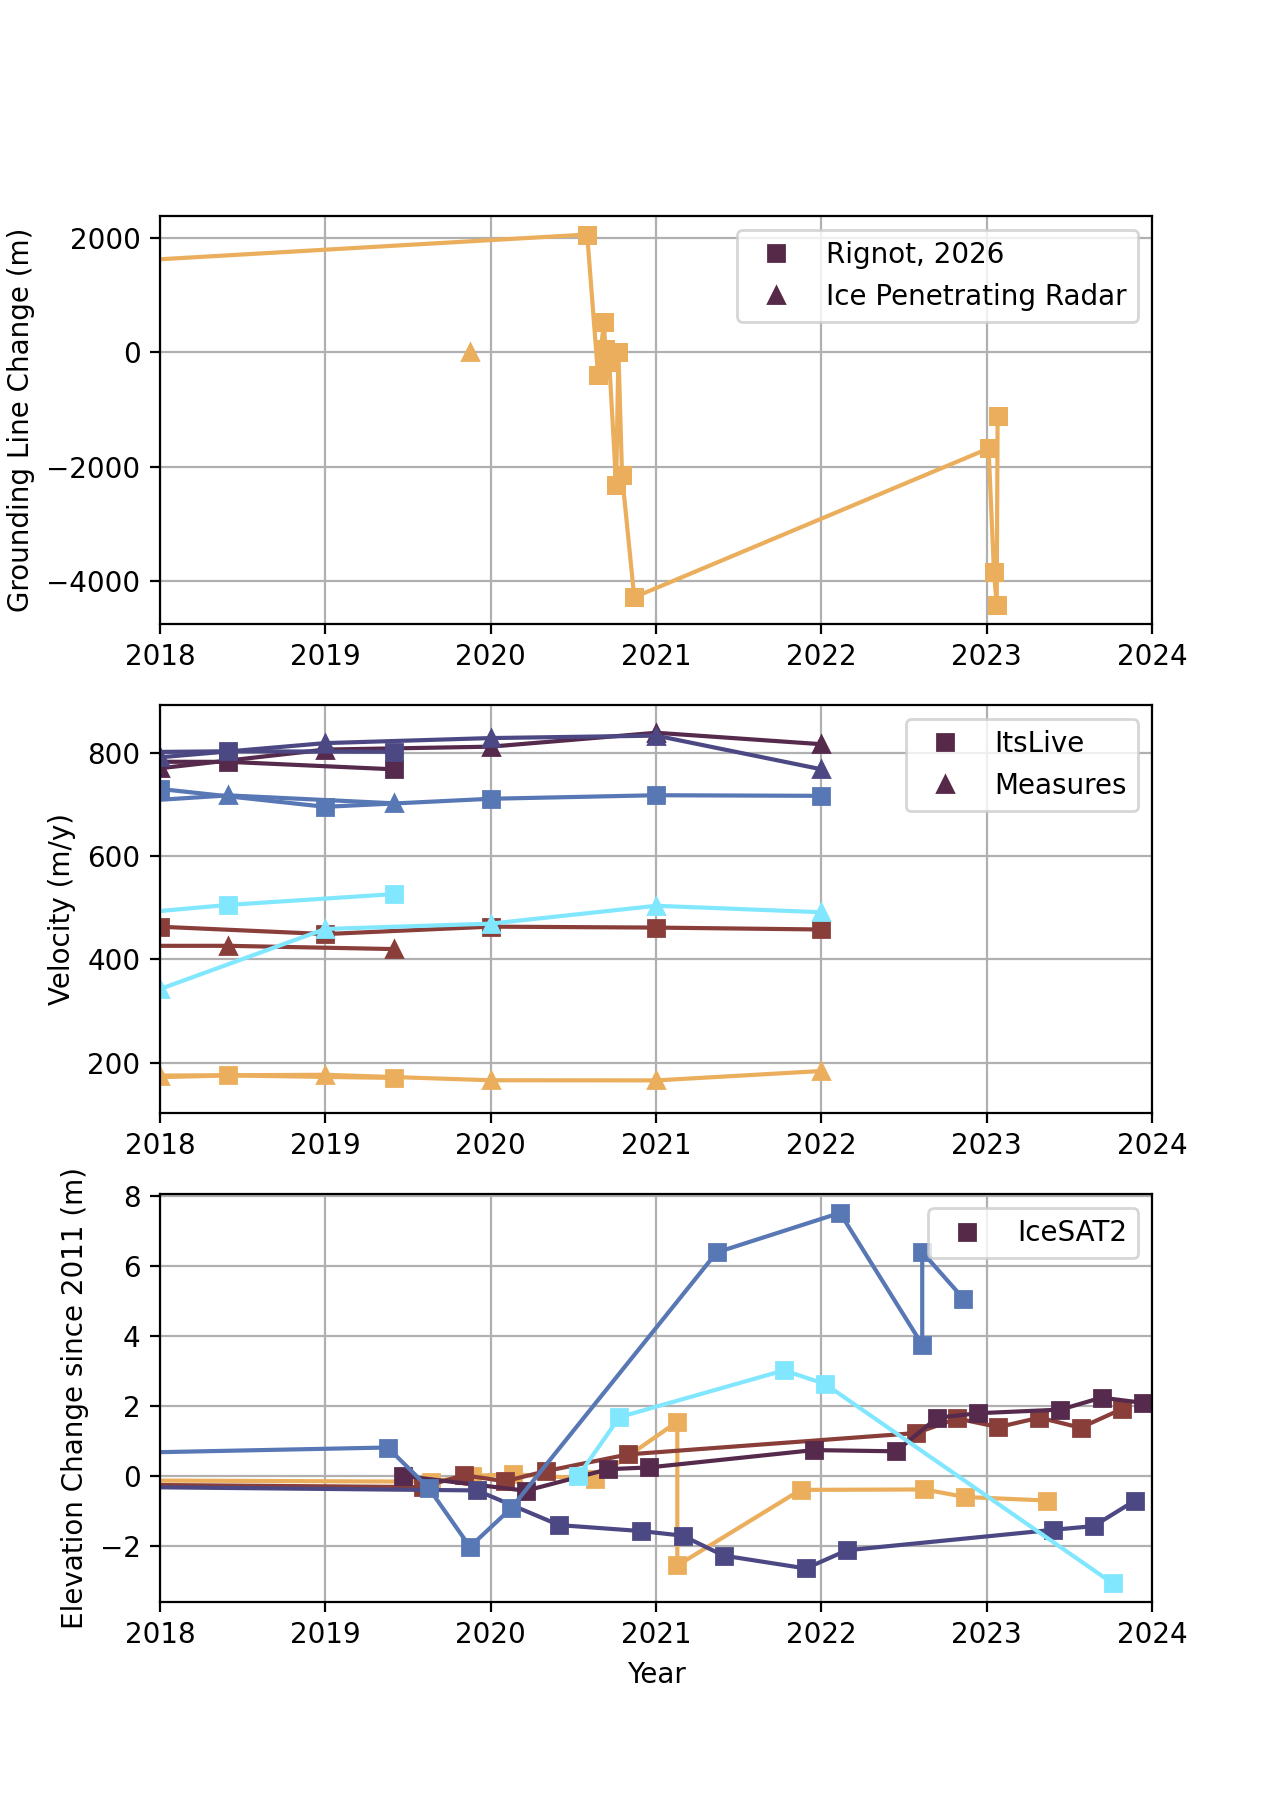
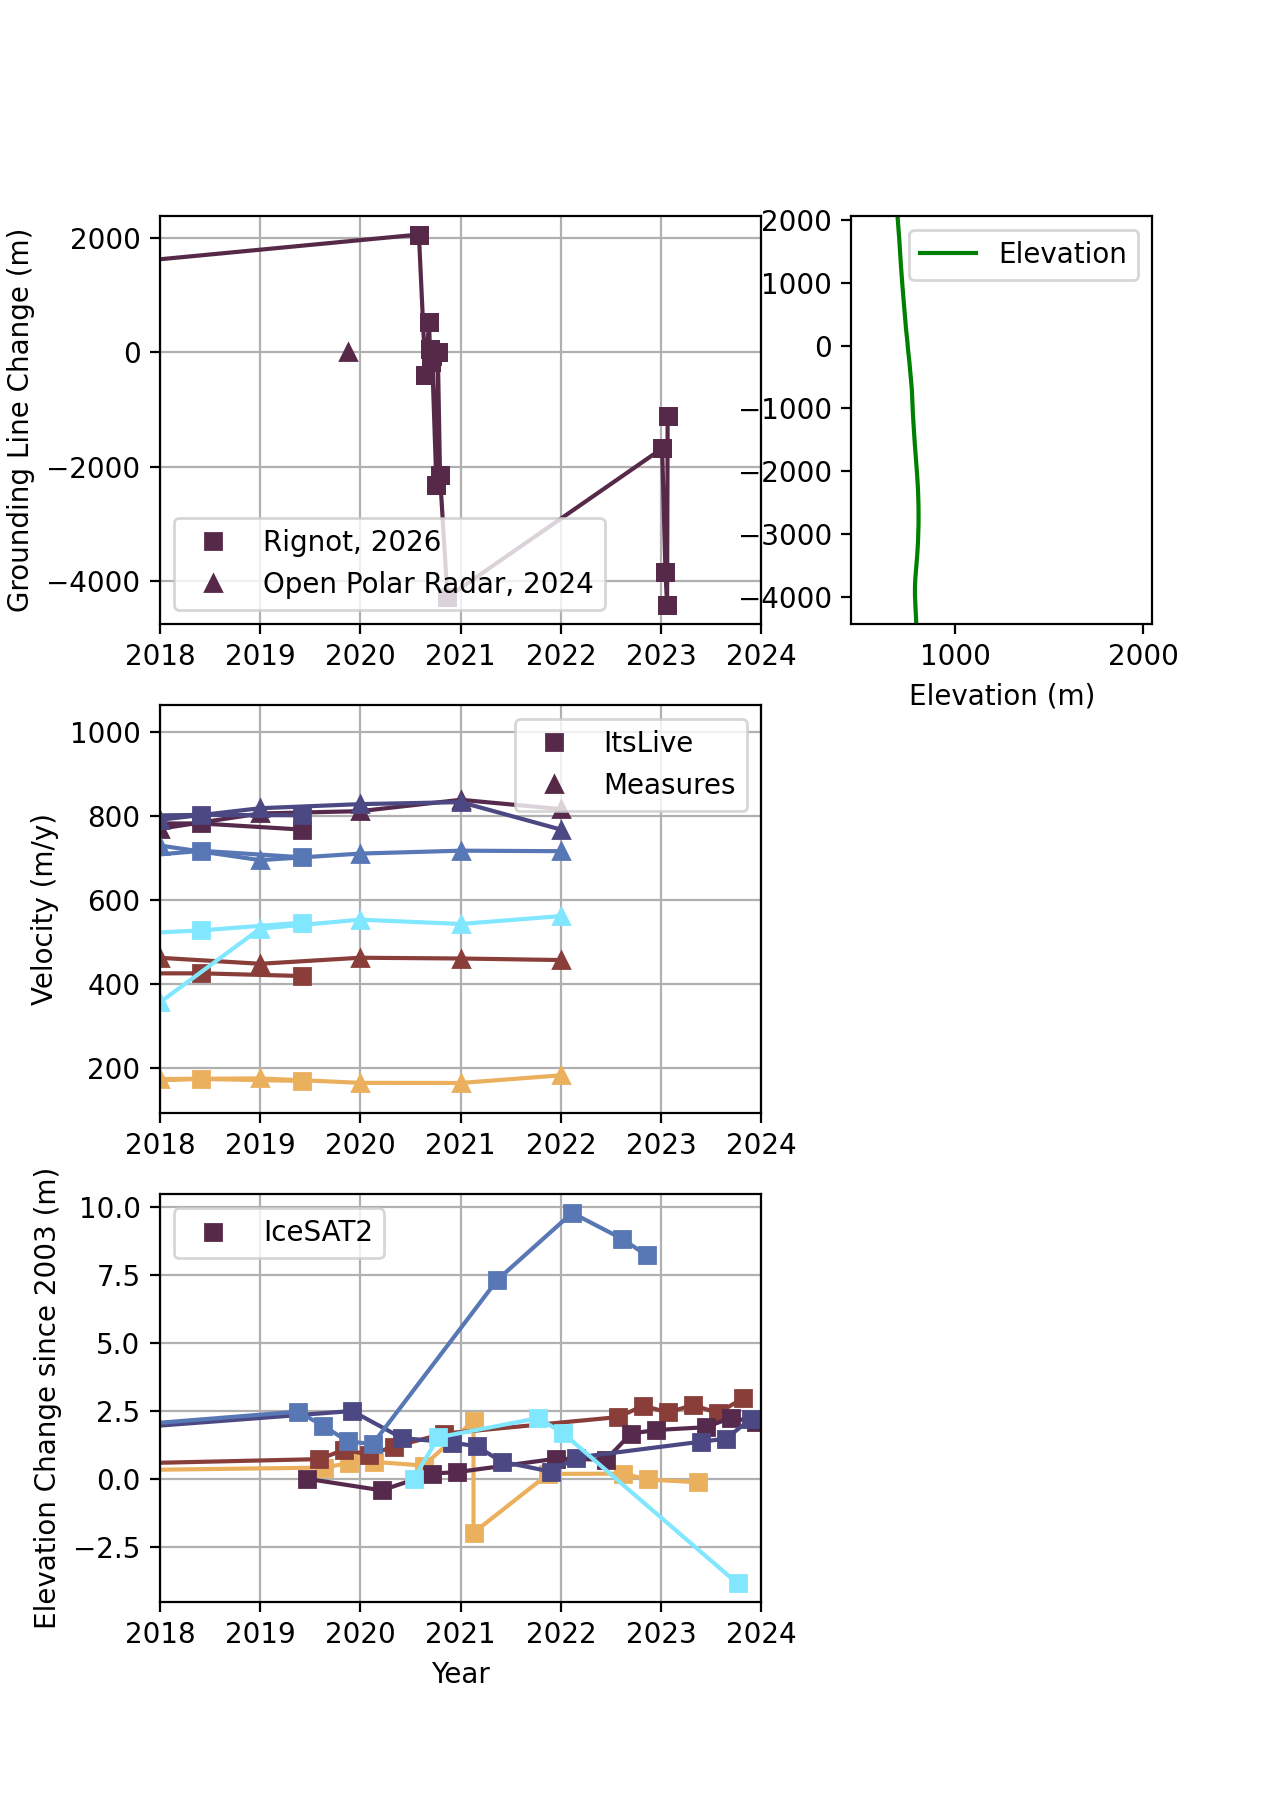
uhh start of elevation vs dist along grounding zone

diff --git a/src/pointwise.py b/src/pointwise.py
@@ -1,6 +1,6 @@
 import datetime
 from utils import *
-from file_manager import GravimetryManager, ElevationManager, VelocityManager
+from file_manager import GravimetryManager, ElevationManager, VelocityManager, IPRManager
 
 import geopandas as gpd
 import rioxarray # used by xarray for some reason, must be first
@@ -255,14 +255,20 @@ class Pointwize():
             for i, s in enumerate(self.results[list(self.results.keys())[0]]['sources'].unique()):
                 ax.plot([], [], label = s, marker= shapes[i], color=sm.to_rgba(0), linestyle='None')
 
+
+
         
 
         for j, p in enumerate(self.results.keys()):
             self.results[p] = self.results[p].dropna()
             ls = 'None'
+            color = sm.to_rgba(self.labels[j])
+            if self.data == 'gl':
+                color = sm.to_rgba(0)
+
             if unified_line:
                 ax.plot(self.results[p]['time'], 
-                            self.results[p][self.data].values, marker= 'None', color=sm.to_rgba(self.labels[j]))
+                            self.results[p][self.data].values, marker= 'None', color=color)
             else:
                 ls = 'solid'
             
@@ -271,10 +277,42 @@ class Pointwize():
                     cur = self.results[p][self.results[p]['sources'] == s]
                     
                     ax.plot(cur['time'], 
-                            cur[self.data].values, marker= shapes[i], color=sm.to_rgba(self.labels[j]), linestyle=ls)
+                            cur[self.data].values, marker= shapes[i], color=color, linestyle=ls)
             else:
                 ax.plot(self.results[p]['time'], 
-                        self.results[p][self.data].values, label = p, marker= 'o', color=sm.to_rgba(self.labels[j]), linestyle=ls)
+                        self.results[p][self.data].values, label = p, marker= 'o', color=color, linestyle=ls)
+
+            if self.data == 'gl':
+                return
+
+
+    def plot_elevation_summary(self, fig, ax):
+
+        fm = IPRManager(self.xlim, self.ylim, self.flags, self.data)
+        out = fm.get_ouput_files()
+        out = df_ref = gpd.sjoin_nearest(self.fl, out, max_distance=self.max_dist*10)
+
+        print(out)
+        print(self.fl)
+        out = out.sort_values('dist_from_grndline')
+            
+        
+
+        sm = mpl.cm.ScalarMappable(norm=self.norm, cmap=self.cm)
+        color = sm.to_rgba(0)
+
+
+        #ax.plot(out['BOTTOM'], out['dist_from_grndline'].values, marker= 'None', color='blue', label='Bottom')
+        #ax.plot(out['SURFACE'], out['dist_from_grndline'].values, marker= 'None', color='red', label='Surface')
+        ax.plot(out['ELEVATION'], out['dist_from_grndline'].values, marker= 'None', color='green', label='Elevation')
+
+        ax.legend()
+
+        ax.set_ylim(min(self.results[''][self.data].values), max(self.results[''][self.data].values))
+
+        #ax.set_ylabel("Grounding Line Change (m)")
+        ax.set_xlabel("Elevation (m)")
+
 
 
     def get_data_rema(self):
@@ -309,7 +347,7 @@ class Pointwize():
 
         if self.data == 'gl':
             self.get_gl_set()
-            self.get_gl_set(GL_GPKG_radar, ['date'], 'Ice Penetrating Radar')
+            self.get_gl_set(GL_GPKG_radar, ['date'], 'Open Polar Radar, 2024')
             return 
 
         filemanager = fms[self.data](self.xlim, self.ylim, self.flags, self.data)

diff --git a/src/main.py b/src/main.py
@@ -207,7 +207,7 @@ class main():
 
         labels = {
             'vel': "Velocity (m/y)",
-            'elev': 'Elevation Change since 2011 (m)',
+            'elev': 'Elevation Change since 2003 (m)',
             'grav': 'Gravimetry Change since 2011 (kg/m²)',
             'gl': 'Grounding Line Change (m)',
         }
@@ -224,33 +224,50 @@ class main():
             labels['elev'] = 'Elevation (m)'
             labels['gl'] = 'Grounding Line (m)'
 
-        fig, ax = plt.subplots(len(data), 1)
+
+        gl_elevation_width = 0.5
+
+        width_ratios = [1, 0]
+        if 'gl' in data:
+            width_ratios = [1, gl_elevation_width]
+
+        fig, ax = plt.subplots(len(data), 2, gridspec_kw={'width_ratios': width_ratios})
         fig.set_figheight(3*len(data))
+
+        if width_ratios[1] > 1:
+            fig.set_figwidth(1 + gl_elevation_width)
 
 
         for i, d in enumerate(data):
             f = Flags()
             for fl in self.flags.flags:
                 f.add(fl)
-            f.add('-2010-2025')
+            f.add('-2000-2025')
             print(point)
             p = Pointwize(f, self.xlim, self.ylim, 
                         point['point'], data = d, change=change and can_change[d],
                         pt_range = point['point_range'], point_spacing=point['point_spacing'])
-            p.plot_time_series(fig, ax[i], rema=rema)
+            p.plot_time_series(fig, ax[i][0], rema=rema)
             if i == 0:
                 p.save_point_df() # save the points df if first one made
                 plt.close('all')
 
 
-            ax[i].set_ylabel(labels[d])
-            ax[i].grid()
+            ax[i][0].set_ylabel(labels[d])
+            ax[i][0].grid()
 
-            ax[i].set_xlim((datetime.datetime(self.flags.YEARSTART, 1, 1), datetime.datetime(self.flags.YEAREND, 1, 1)))
+            ax[i][0].set_xlim((datetime.datetime(self.flags.YEARSTART, 1, 1), datetime.datetime(self.flags.YEAREND, 1, 1)))
 
-            ax[i].legend()
+            ax[i][0].legend()
             if i == len(data)-1:
-                ax[i].set_xlabel('Year')
+                ax[i][0].set_xlabel('Year')
+
+            if d == 'gl':
+                p.plot_elevation_summary(fig, ax[i][1])
+            else:
+                ax[i][1].set_visible(False)
+
+
         
         print("Saving image...")
         fig.savefig(POINTWISE_OUTPUT_LOCATION + str(int(point['point'][0])) + '_' + str(int(point['point'][1])) + "_plot.png", dpi=200)

diff --git a/src/file_manager.py b/src/file_manager.py
@@ -42,6 +42,7 @@ class FileManager:
 
         self.fname_format = fname_formats
         self.h5_location = h5_location
+        self.gpkg_source = 'IceSAT2'
         self.sources = flags.sources_v()
 
         self.yearStart = int(flags.YEARSTART)
@@ -77,7 +78,7 @@ class FileManager:
             if file.split('.')[-1] == 'gpkg':
                 cur_df = gpd.read_file(file)
                 cur_df = cur_df.to_crs('EPSG:3031')
-                cur_df['sources'] = 'IceSAT2'
+                cur_df['sources'] = self.gpkg_source
 
             elif file.split('.')[-1] == 'tif':
                 cur_df = xr.open_dataset(file).squeeze()
@@ -735,7 +736,7 @@ class ElevationManager(FileManager):
 
 
 
-    def build_supplementary_files(self, to_build=2011):
+    def build_supplementary_files(self, to_build=2003):
 
         ref_year = 2019
         if not np.datetime64(str(ref_year)) in self.file.keys():
@@ -815,3 +816,29 @@ class GravimetryManager(FileManager):
         else:
             data = data_override
         return [GRAV_LOCATION], [], []
+
+
+
+class IPRManager(FileManager):
+
+    def __init__(self, xlims, ylims, flags, data, label=''):
+        
+        ftype='csv'
+        super().__init__(xlims, ylims, flags, data, ftype,label=label)
+        self.gpkg_source = "Open Polar Radar, 2024"
+        
+    
+
+    def build_files(self):
+        return
+
+    
+    
+
+
+    def fnames(self, data_override=None):
+        if data_override == None:
+            data = self.data
+        else:
+            data = data_override
+        return [IPR_GPKG_LOCATION], [], []

diff --git a/src/utils.py b/src/utils.py
@@ -88,7 +88,7 @@ ICESAT1_ELEVATION_RATE_FLOATING = INPUT + 'elevation/change_rates_crs_4326_float
 
 ELEVATION_GPKG_LOCATION = OUTPUT + 'elevation/'
 TIF_LOCATION = OUTPUT
-TEST_PNG_LOCATION = OUTPUT +"images/"
+TEST_PNG_LOCATION = OUTPUT +"images/" 
 POINTWISE_OUTPUT_LOCATION = OUTPUT + 'pointwise/'
 
 REMA_PREVIEW_LOCATION = INPUT + "rema/"
@@ -104,6 +104,8 @@ SHAPEFILES = {
 
 GL_GPKG_InSAR = "shapefiles/InSAR_GL_Antarctica_v1-1992-2025_reprojected.gpkg"
 GL_GPKG_radar = "shapefiles/radar_derived_grounding_line.gpkg"
+
+IPR_GPKG_LOCATION = INPUT + "ipr/radar.gpkg"
 
 VEL_TIF_FORMAT = TIF_LOCATION + "{0}_{1}_v.tif" # 0=year, 1=direction
 
